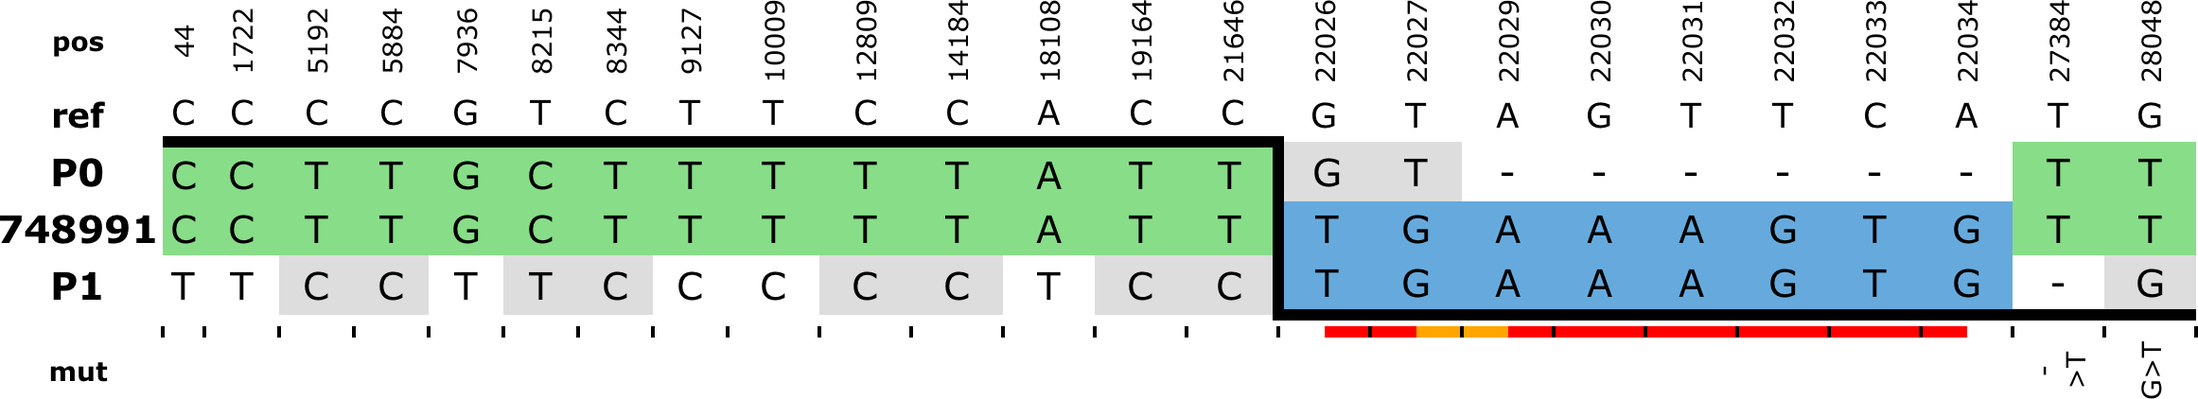
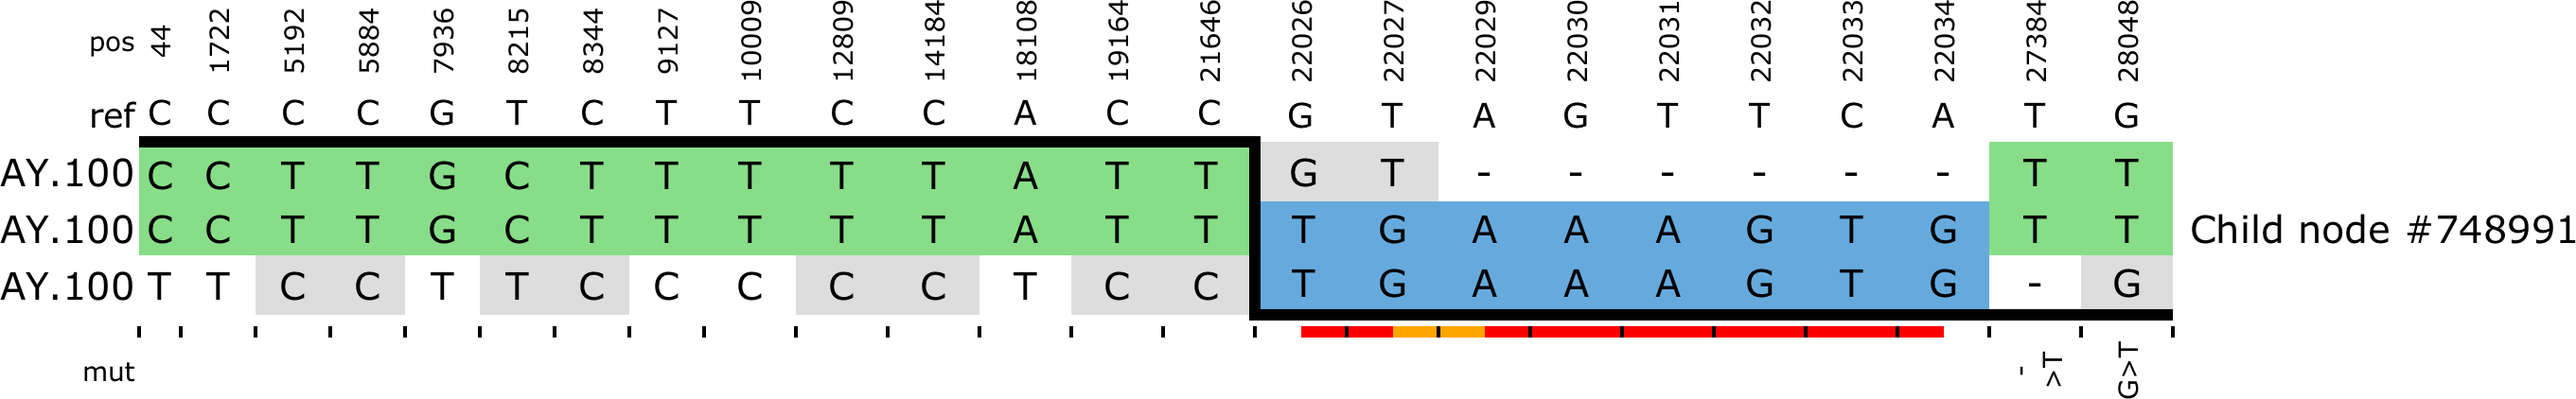
New copying patterns
And copying_patterns.html file

diff --git a/src/save_copying_patterns.py b/src/save_copying_patterns.py
@@ -32,7 +32,7 @@ def pangoX_RE_node_labels(exclude_dups=True):
         pango_x_events.closest_recombinant[use],
         'num_descendant_samples'
     ]
-    # Exclude non-recombinants, and ondes where closes RE node is BA.5
+    # Exclude non-recombinants, and nodes where closes RE node is BA.5
     pango_x = pango_x_events[np.logical_and(
         closest_recombinant_num_samples > 0,
         closest_recombinant_num_samples < 1e5
@@ -53,11 +53,7 @@ def pangoX_RE_node_labels(exclude_dups=True):
     else:
         return dict(px)
 
-def save_copying_pattern_image(node_id, label, ts, save_dir, zoom=None,**kwargs):
-    # NB - do not zoom if no ATCG letters are printed, as boxes will be of varying size
-    html_str = sc2ts.info.CopyingTable(ts, node_id).html(**kwargs)
-    html_str = html_str.replace('transform:', '-webkit-transform:')
-    html_str = html_str.replace('writing-mode:', '-webkit-writing-mode:')
+def save_copying_pattern_image(html_str, label, save_dir, zoom=None):
     options = {"format": "png", "quiet": "", "transparent": ""}  # use transparent so we can crop
     if zoom is not None:
         options['zoom'] = zoom 
@@ -69,33 +65,104 @@ def save_copying_pattern_image(node_id, label, ts, save_dir, zoom=None,**kwargs)
     img = img.crop(bbox)
     img.save(save_dir / f"{label}.png", "PNG", optimize=True, compress_level=9)
 
+def get_copying_table(ts, node_id, **kwargs):
+    html_str = sc2ts.info.CopyingTable(ts, node_id).html(**kwargs)
+    html_str = html_str.replace('transform:', '-webkit-transform:')
+    return html_str.replace('writing-mode:', '-webkit-writing-mode:')
+
+def save_copying_table_image(ts, node_id, label, save_dir, zoom=None,**kwargs):
+    # NB - do not zoom if no ATCG letters are printed, as boxes will be of varying size
+    html_str = get_copying_table(ts, node_id, **kwargs)
+    html_str = html_str.replace('<style>', '<style>.copying-table th {text-align: right; font-weight: normal;}')
+    save_copying_pattern_image(html_str, label, save_dir, zoom=zoom)
+
+rec = pd.read_csv(data_dir / "recombinants.csv").set_index('recombinant')
+
+####
+# The pango X versions
+####
 for u, label in tqdm(pangoX_RE_node_labels().items()):
-    save_copying_pattern_image(
-       u,
-       label,
-       ts,
-       png_dir,
+    row = rec.loc[u]
+    save_copying_table_image(
+        ts,
+        u,
+        label,
+        png_dir,
         hide_extra_rows=True,
-        hide_labels=True,
         show_bases=None,
-       font_family='Verdana',
+        child_label=row.recombinant_pango,
+        parent_labels=[row.parent_left_pango, row.parent_right_pango],
+        child_rgt_label=f"&nbsp;{u}",
+        font_family='Verdana',
     )
 
+####
+# The examples for bad quadrants
+####
 for u, lab in tqdm([
     (427863, "RE_node-QCpass-427863"),  # Q1
     (748991, "RE_node-QCfail-748991"),  # Q2
     (411345, "RE_node-QCfail-411345"),  # Q3
     (663484, "RE_node-QCfail-663484"),  # Q4
 ]):
-    save_copying_pattern_image(
+    row = rec.loc[u]
+    save_copying_table_image(
+        ts,
         u,
         lab,
-        ts,
         png_dir,
         hide_extra_rows=False,
-        hide_labels=False,
         show_bases=True,
-        child_label=f"{u}",
         zoom=4,
+        child_label=row.recombinant_pango,
+        parent_labels=[row.parent_left_pango, row.parent_right_pango],
+        child_rgt_label=f"&nbsp;Child&nbsp;node&nbsp;#{u}",
         font_family='Verdana',
     )
+
+####
+# The html file (and all recombs)
+####
+with open(data_dir / "copy_patterns.html", "wt") as f:
+    print(
+        "<html>",
+        "<head><style>",
+        "@media print {@page {size: A3 landscape;}}", 
+        "table tr td, table tr th {page-break-inside: avoid;}",
+        ".nobreak {page-break-inside: avoid !important; margin-bottom: 5px}",
+        ".fail-lft {background-color: gainsboro; background-image: repeating-linear-gradient(-45deg, transparent, transparent 5px, silver 5px, silver 6px);}",
+        ".fail-rgt {background-color: gainsboro; background-image: repeating-linear-gradient(45deg, transparent, transparent 5px, silver 5px, silver 6px);}",
+        ".fail-lft.fail-rgt {background-color: gainsboro; background-image: repeating-linear-gradient(-45deg, transparent, transparent 5px, silver 5px, silver 6px), repeating-linear-gradient(45deg, transparent, transparent 5px, silver 5px, silver 6px);}",
+        "</style></head>",
+        "<body>",
+        sep="\n",
+        file=f
+    )
+    df = rec.sort_index()
+    for i, row in tqdm(enumerate(df.itertuples())):
+        css_classes = ["nobreak"]
+        if row.net_min_supporting_loci_lft < 4:
+            css_classes.append("fail-lft")
+        if row.net_min_supporting_loci_rgt < 4:
+            css_classes.append("fail-rgt")
+        if i == 0:
+            exclude_stylesheet = False
+            child_rgt_label = f'<span style="white-space: pre;"> Copying pattern for recombinant child, node #{row.Index}</span>'
+        else:
+            exclude_stylesheet = True
+            child_rgt_label = f"&nbsp;#{row.Index}"
+        t = get_copying_table(
+            ts,
+            row.Index,
+            child_label=row.recombinant_pango,
+            parent_labels=[row.parent_left_pango, row.parent_right_pango],
+            child_rgt_label=child_rgt_label,
+            exclude_stylesheet=i>0,
+        )
+        print(f'<div class="{" ".join(css_classes)}">{t}</div>', file=f)
+        #save_copying_pattern_image(
+        #    t, f"RE_node-QC{s}-{row.recombinant}",
+        #    png_dir, child_label=row.sample_id, hide_extra_rows=False, hide_labels=False,
+        #    show_bases=True, zoom=4, font_family='Verdana'
+        #)
+    print("</body>", "</html>", sep="\n", file=f)
